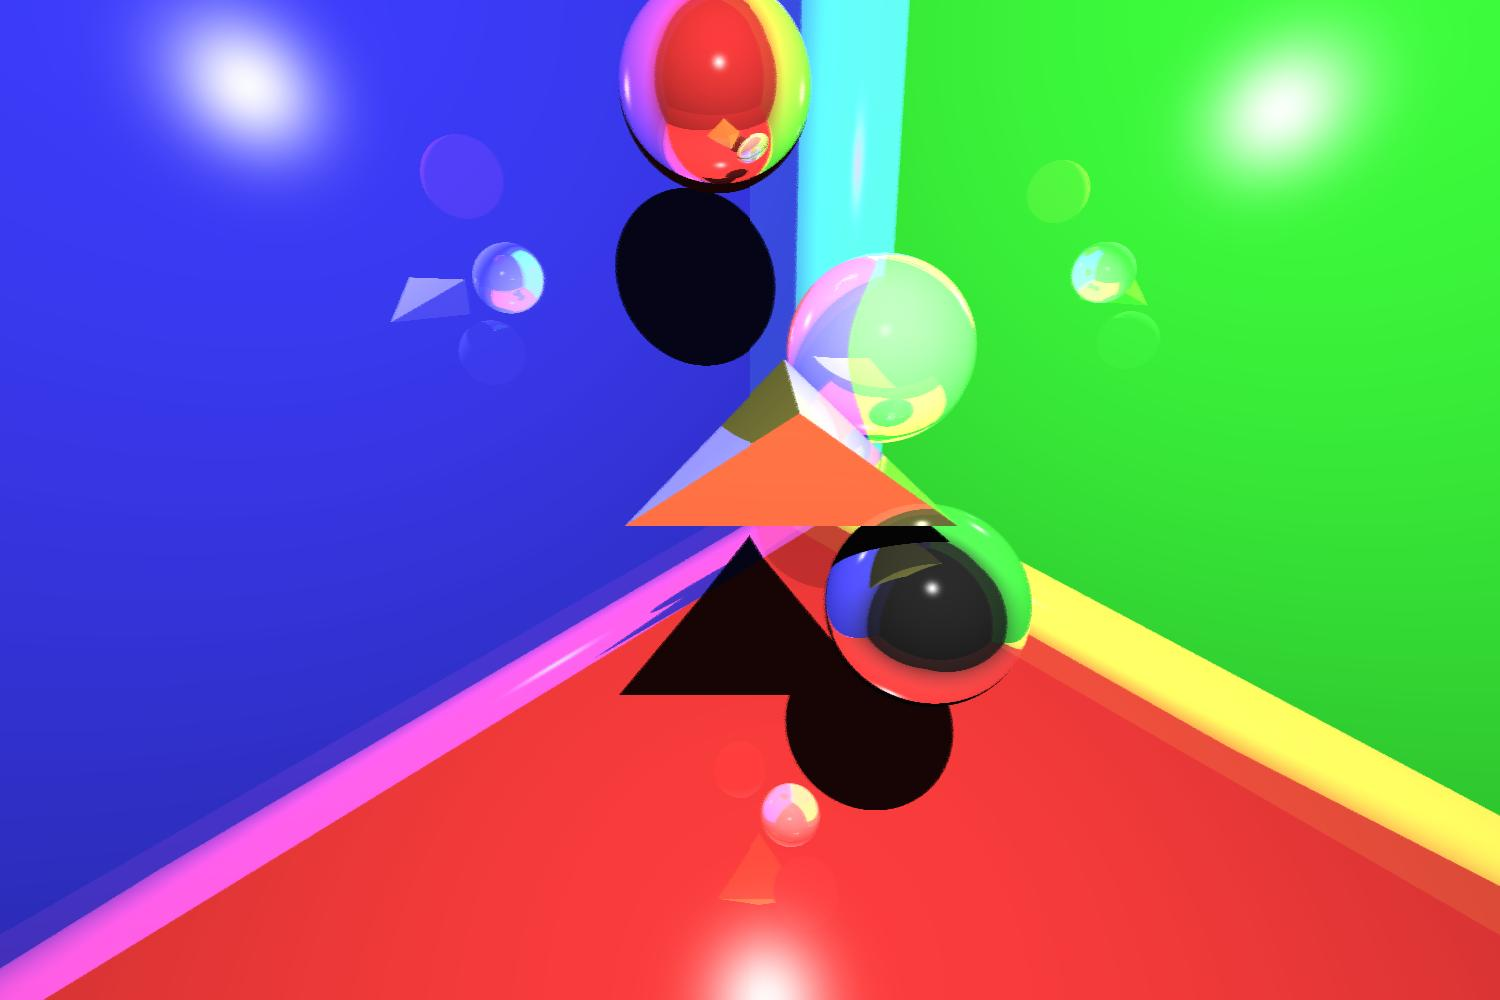
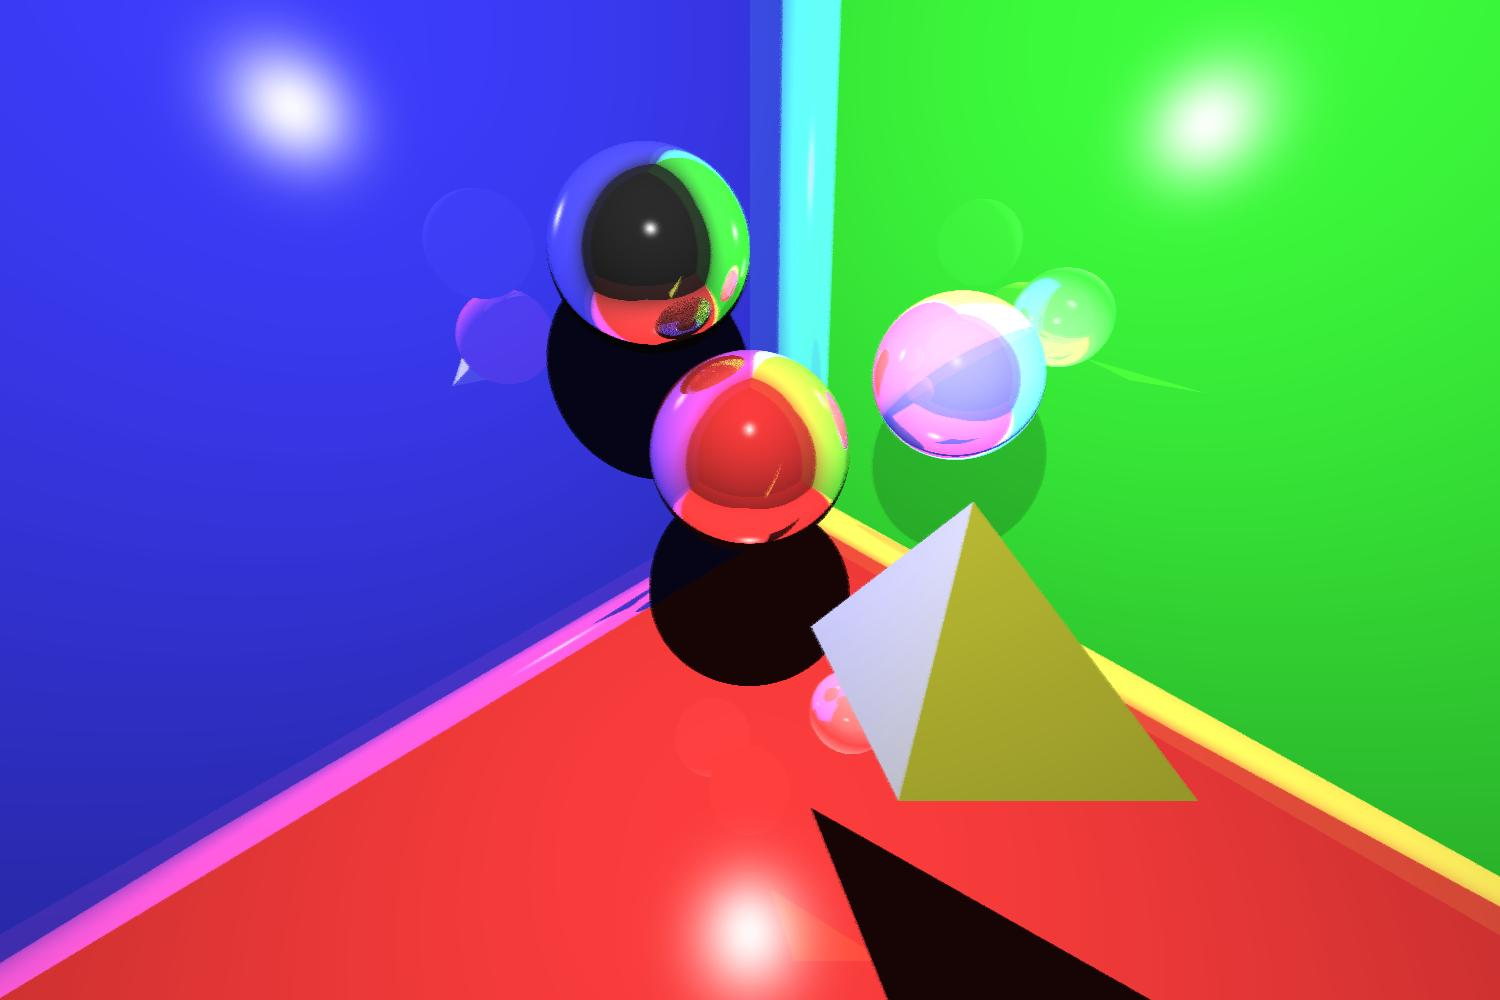
coordenadas de camara a mundo

diff --git a/src/trazadorrayos/Escena.java b/src/trazadorrayos/Escena.java
@@ -24,8 +24,8 @@ public class Escena {
 	private Pantalla pantalla = null;
 	private Camara camara = null;
 	private Foco foco = null;
-	private static Matrix4d matrizTransformacionIdentidad = new Matrix4d(1, 0, 0, 0,
-			0, 1, 0, 0, 0, 0, 1, 0, 0, 0, 0, 1);
+	private static Matrix4d matrizTransformacionIdentidad = new Matrix4d(1, 0,
+			0, 0, 0, 1, 0, 0, 0, 0, 1, 0, 0, 0, 0, 1);
 
 	public Escena(Foco foco, Camara camara, Pantalla pantalla) {
 		this.foco = foco;
@@ -91,43 +91,9 @@ public class Escena {
 
 				figura = escenaFichero.next();
 				switch (figura) {
-				case "figura:foco":
 
-					String cadena = escenaFichero.next();
-					while (!cadena.equals(".")) {
-						if (cadena.equals("posicion:")) {
-							punto = new Point4d(escenaFichero.nextInt(),
-									escenaFichero.nextInt(),
-									escenaFichero.nextInt(),
-									escenaFichero.nextInt());
-							cadena = escenaFichero.next();
-						}
-						else if (cadena.equals("color:")) {
-							color = new Color(escenaFichero.nextShort(),
-									escenaFichero.nextShort(),
-									escenaFichero.nextShort());
-							cadena = escenaFichero.next();
-						}
-						else if (cadena.equals("intensidad:")) {
-							intensidad = Float.parseFloat(escenaFichero.next());
-							cadena = escenaFichero.next();
-
-						}
-						else if (cadena.equals("Iambiente:")) {
-							intensidadAmbiente = Float.parseFloat(escenaFichero
-									.next());
-							cadena = escenaFichero.next();
-						}
-
-					}
-					foco = new Foco(punto, color, intensidad,
-							intensidadAmbiente);
-
-					System.out.println(foco);
-
-					break;
 				case "figura:camara":
-					cadena = escenaFichero.next();
+					String cadena = escenaFichero.next();
 					while (!cadena.equals(".")) {
 						if (cadena.equals("distanciaPantalla:")) {
 							distanciaPantalla = escenaFichero.nextInt();
@@ -176,6 +142,46 @@ public class Escena {
 							altura);
 					System.out.println(pantalla);
 					break;
+				case "figura:foco":
+					cadena = escenaFichero.next();
+					while (!cadena.equals(".")) {
+						if (cadena.equals("posicion:")) {
+							punto = new Point4d(escenaFichero.nextInt(),
+									escenaFichero.nextInt(),
+									escenaFichero.nextInt(),
+									escenaFichero.nextInt());
+							cadena = escenaFichero.next();
+						}
+						else if (cadena.equals("color:")) {
+							color = new Color(escenaFichero.nextShort(),
+									escenaFichero.nextShort(),
+									escenaFichero.nextShort());
+							cadena = escenaFichero.next();
+						}
+						else if (cadena.equals("intensidad:")) {
+							intensidad = Float.parseFloat(escenaFichero.next());
+							cadena = escenaFichero.next();
+
+						}
+						else if (cadena.equals("Iambiente:")) {
+							intensidadAmbiente = Float.parseFloat(escenaFichero
+									.next());
+							cadena = escenaFichero.next();
+						}
+
+					}
+					Matrix4d mTFoco = matrizTraslacion(punto);
+					Point4d posicionFoco = new Point4d(0, 0, 0, 1);
+					posicionFoco = multiplyPointMatrix(posicionFoco,
+							mTFoco);
+					posicionFoco = multiplyPointMatrix(posicionFoco,
+							camara.getCambioBase());
+					foco = new Foco(posicionFoco, color, intensidad,
+							intensidadAmbiente);
+
+					System.out.println(foco);
+
+					break;
 				case "figura:esfera":
 					cadena = escenaFichero.next();
 					while (!cadena.equals(".")) {
@@ -217,6 +223,8 @@ public class Escena {
 					Point4d posicionEsfera = new Point4d(0, 0, 0, 1);
 					posicionEsfera = multiplyPointMatrix(posicionEsfera,
 							mTEsfera);
+					posicionEsfera = multiplyPointMatrix(posicionEsfera,
+							camara.getCambioBase());
 					Esfera esfera = new Esfera(posicionEsfera, refraccion,
 							reflectividad, KD, KS, radio);
 					System.out.println(esfera);
@@ -265,6 +273,8 @@ public class Escena {
 					Matrix4d mTPlano = matrizTraslacion(posicion);
 					Point4d posicionPlano = new Point4d(0, 0, 0, 1);
 					posicionPlano = multiplyPointMatrix(posicionPlano, mTPlano);
+					posicionPlano = multiplyPointMatrix(posicionPlano,
+							camara.getCambioBase());
 					Plano plano = new Plano(posicionPlano, normal, refraccion,
 							reflectividad, KD, KS);
 					System.out.println(plano);
@@ -325,15 +335,20 @@ public class Escena {
 					Point4d punto1Triangulo = new Point4d(0, 0, 0, 1);
 					punto1Triangulo = multiplyPointMatrix(punto1Triangulo,
 							mTTriangulo);
+					punto1Triangulo = multiplyPointMatrix(punto1Triangulo,
+							camara.getCambioBase());
 					mTTriangulo = matrizTraslacion(punto2);
 					Point4d punto2Triangulo = new Point4d(0, 0, 0, 1);
 					punto2Triangulo = multiplyPointMatrix(punto2Triangulo,
 							mTTriangulo);
+					punto2Triangulo = multiplyPointMatrix(punto2Triangulo,
+							camara.getCambioBase());
 					mTTriangulo = matrizTraslacion(punto3);
 					Point4d punto3Triangulo = new Point4d(0, 0, 0, 1);
 					punto3Triangulo = multiplyPointMatrix(punto3Triangulo,
 							mTTriangulo);
-
+					punto3Triangulo = multiplyPointMatrix(punto3Triangulo,
+							camara.getCambioBase());
 					Triangulo triangulo = new Triangulo(punto1Triangulo,
 							punto2Triangulo, punto3Triangulo, refraccion,
 							reflectividad, KD, KS);
